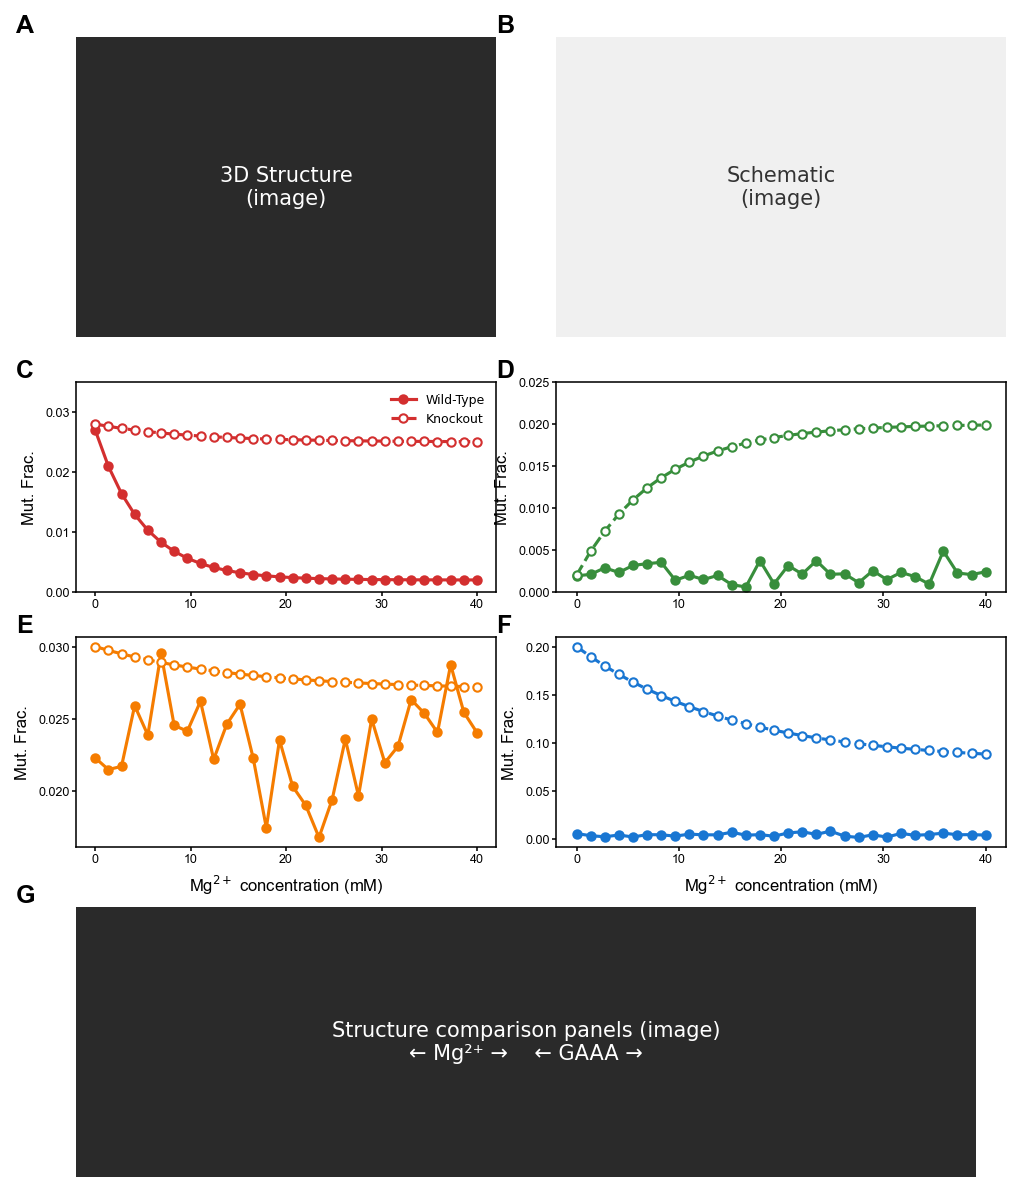
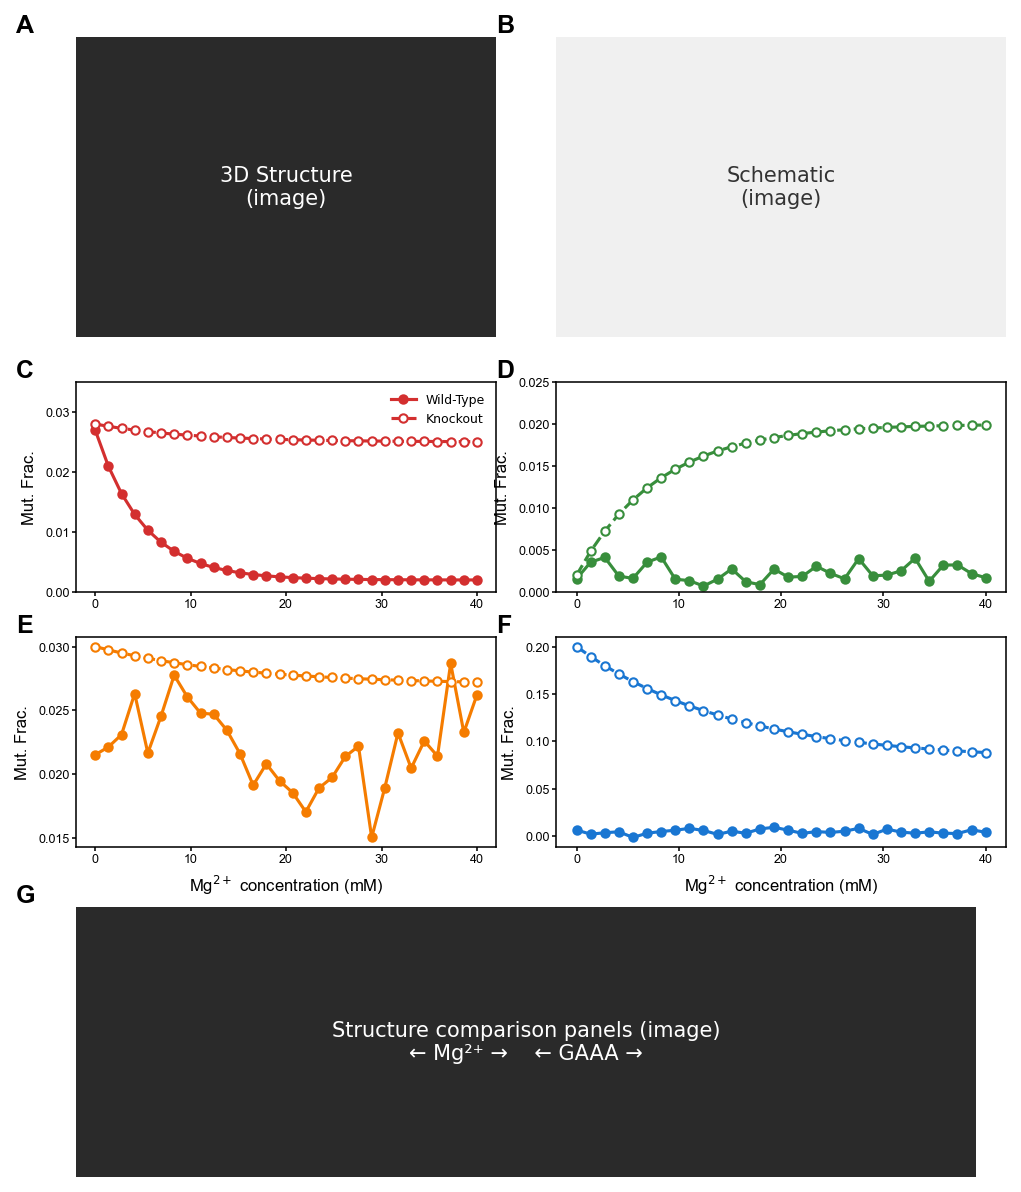
Add tight layout example matching publication figures
Example 8 shows how to create figures like scientific publications:
- Image panels at left=0 for true edge-to-edge filling
- Minimal spacing between panels
- Plots tight against image panels above/below

🤖 Generated with [Claude Code](https://claude.com/claude-code)

diff --git a/examples/example_08_tight_layout.py b/examples/example_08_tight_layout.py
@@ -1,0 +1,119 @@
+"""
+Example 8: Tight layout like publication figures
+
+Replicates layout where:
+- Image panels (A, B, G) fill completely edge-to-edge
+- Minimal spacing between panels
+- Plots touch image panels directly
+"""
+import numpy as np
+import matplotlib.pyplot as plt
+import yplot2 as yp
+
+fig_size = (6.5, 8.5)
+
+# Row 1: Two image panels (A and B) - NO extra space
+a = yp.Coord(left=0.0, bottom=6.3, width=3.0, height=2.2)
+b = yp.Coord(left=3.0, bottom=6.3, width=3.5, height=2.2)
+
+# Row 2: Plots C and D - tight to images above
+# Note: plots need left margin for y-axis label
+c = yp.Coord(left=0.45, bottom=4.7, width=2.55, height=1.4)
+d = yp.Coord(left=3.45, bottom=4.7, width=3.0, height=1.4)
+
+# Row 3: Plots E and F
+e = yp.Coord(left=0.45, bottom=3.1, width=2.55, height=1.4)
+f = yp.Coord(left=3.45, bottom=3.1, width=3.0, height=1.4)
+
+# Row 4: Wide image G - full width, no margins
+g = yp.Coord(left=0.0, bottom=0.0, width=6.5, height=2.8)
+
+coords = [a, b, c, d, e, f, g]
+fig, axes = yp.create_figure(fig_size, coords)
+
+# --- Panel A: 3D Structure (edge-to-edge) ---
+yp.make_image_panel(axes[0])
+axes[0].fill([0, 1, 1, 0], [0, 0, 1, 1], color='#1a1a1a')
+axes[0].text(0.5, 0.5, "3D Structure", ha='center', va='center',
+             fontsize=12, color='#888', transform=axes[0].transAxes)
+
+# --- Panel B: Schematic (edge-to-edge) ---
+yp.make_image_panel(axes[1])
+axes[1].fill([0, 1, 1, 0], [0, 0, 1, 1], color='#f8f8f8')
+axes[1].text(0.5, 0.5, "Schematic", ha='center', va='center',
+             fontsize=12, color='#666', transform=axes[1].transAxes)
+
+# --- Panels C-F: Line plots ---
+x = np.linspace(0, 40, 25)
+
+# Panel C (red)
+y1 = 0.025 * np.exp(-x/5) + 0.002
+y2 = 0.028 - 0.002 * (1 - np.exp(-x/8))
+axes[2].plot(x, y1, 'o-', color='#c62828', markersize=3, lw=1, markerfacecolor='#c62828')
+axes[2].plot(x, y2, 'o--', color='#c62828', markersize=3, lw=1, markerfacecolor='white', markeredgecolor='#c62828')
+axes[2].set_ylabel('Mut. Frac.', fontsize=7)
+axes[2].set_ylim(0, 0.035)
+axes[2].legend(['Wild-Type', 'TLR-knockout'], fontsize=5, frameon=False, loc='upper right')
+
+# Panel D (green)
+y3 = 0.003 + 0.001 * np.random.randn(25)
+y4 = 0.018 * (1 - np.exp(-x/6)) + 0.002
+axes[3].plot(x, y3, 'o-', color='#2e7d32', markersize=3, lw=1, markerfacecolor='#2e7d32')
+axes[3].plot(x, y4, 'o--', color='#2e7d32', markersize=3, lw=1, markerfacecolor='white', markeredgecolor='#2e7d32')
+axes[3].set_ylim(0, 0.025)
+axes[3].legend(['Wild-Type', 'TL-knockout'], fontsize=5, frameon=False, loc='upper right')
+
+# Panel E (orange)
+y5 = 0.022 + 0.004 * np.random.randn(25)
+y6 = 0.032 - 0.002 * (1 - np.exp(-x/12))
+axes[4].plot(x, y5, 'o-', color='#ef6c00', markersize=3, lw=1, markerfacecolor='#ef6c00')
+axes[4].plot(x, y6, 'o--', color='#ef6c00', markersize=3, lw=1, markerfacecolor='white', markeredgecolor='#ef6c00')
+axes[4].set_ylabel('Mut. Frac.', fontsize=7)
+axes[4].set_ylim(0, 0.04)
+axes[4].legend(['Wild-Type', 'TL-knockout'], fontsize=5, frameon=False, loc='upper right')
+
+# Panel F (blue)
+y7 = 0.005 + 0.003 * np.random.randn(25)
+y8 = 0.12 * np.exp(-x/10) + 0.08
+axes[5].plot(x, y7, 'o-', color='#1565c0', markersize=3, lw=1, markerfacecolor='#1565c0')
+axes[5].plot(x, y8, 'o--', color='#1565c0', markersize=3, lw=1, markerfacecolor='white', markeredgecolor='#1565c0')
+axes[5].set_ylim(0, 0.15)
+axes[5].legend(['Wild-Type', 'TL-knockout'], fontsize=5, frameon=False, loc='upper right')
+
+# Shared x-label for E and F
+axes[4].set_xlabel('Mg$^{2+}$ concentration (mM)', fontsize=7)
+axes[5].set_xlabel('Mg$^{2+}$ concentration (mM)', fontsize=7)
+
+# --- Panel G: Structure comparison (edge-to-edge) ---
+yp.make_image_panel(axes[6])
+axes[6].fill([0, 1, 1, 0], [0, 0, 1, 1], color='#1a1a1a')
+# Draw three "structure" placeholders
+for cx in [0.18, 0.5, 0.82]:
+    axes[6].add_patch(plt.Circle((cx, 0.5), 0.12, color='#444', transform=axes[6].transAxes))
+axes[6].annotate('', xy=(0.35, 0.5), xytext=(0.28, 0.5),
+                 arrowprops=dict(arrowstyle='->', color='white', lw=1.5),
+                 transform=axes[6].transAxes)
+axes[6].text(0.315, 0.65, 'Mg$^{2+}$', ha='center', fontsize=8, color='white', transform=axes[6].transAxes)
+axes[6].annotate('', xy=(0.72, 0.5), xytext=(0.62, 0.5),
+                 arrowprops=dict(arrowstyle='->', color='white', lw=1.5),
+                 transform=axes[6].transAxes)
+axes[6].text(0.67, 0.65, 'GAAA', ha='center', fontsize=8, color='white', transform=axes[6].transAxes)
+
+# Apply styling to plot panels
+plot_axes = [axes[2], axes[3], axes[4], axes[5]]
+for ax in plot_axes:
+    ax.tick_params(labelsize=6, width=0.5, length=2)
+    for spine in ax.spines.values():
+        spine.set_linewidth(0.5)
+
+# Add panel labels - positioned at top-left of each panel
+labels = ['A', 'B', 'C', 'D', 'E', 'F', 'G']
+label_coords = [a, b, c, d, e, f, g]
+for label, coord in zip(labels, label_coords):
+    fig.text(coord.left / fig_size[0] + 0.01,
+             (coord.bottom + coord.height) / fig_size[1] - 0.01,
+             label, fontsize=14, fontweight='bold', va='top', ha='left')
+
+fig.savefig("example_08_output.png", dpi=150, facecolor='white',
+            pad_inches=0, bbox_inches='tight')
+print("Saved example_08_output.png")
